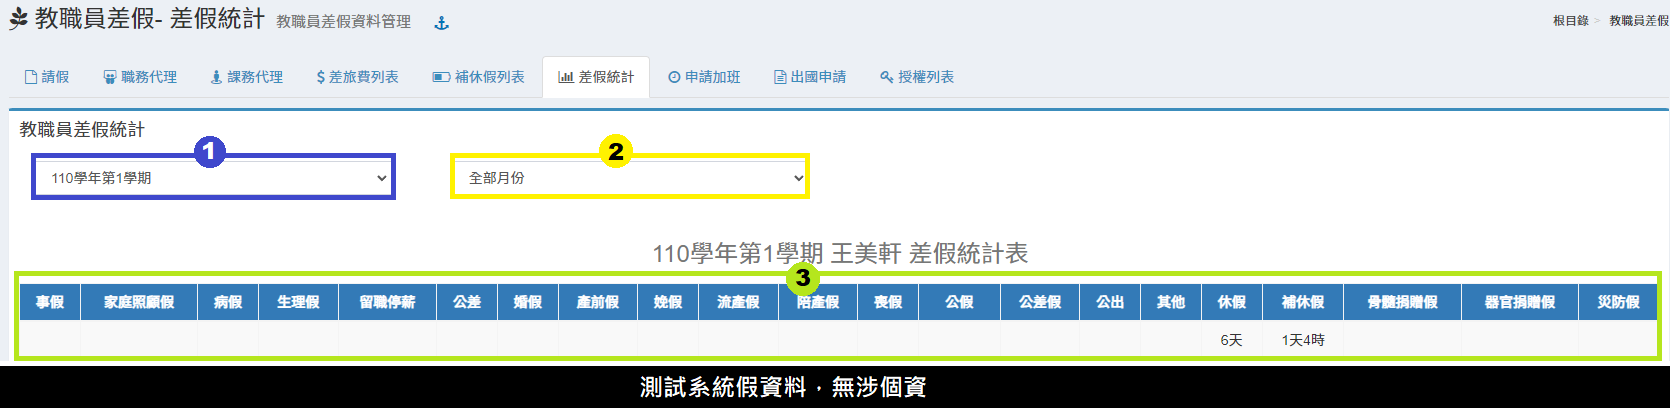
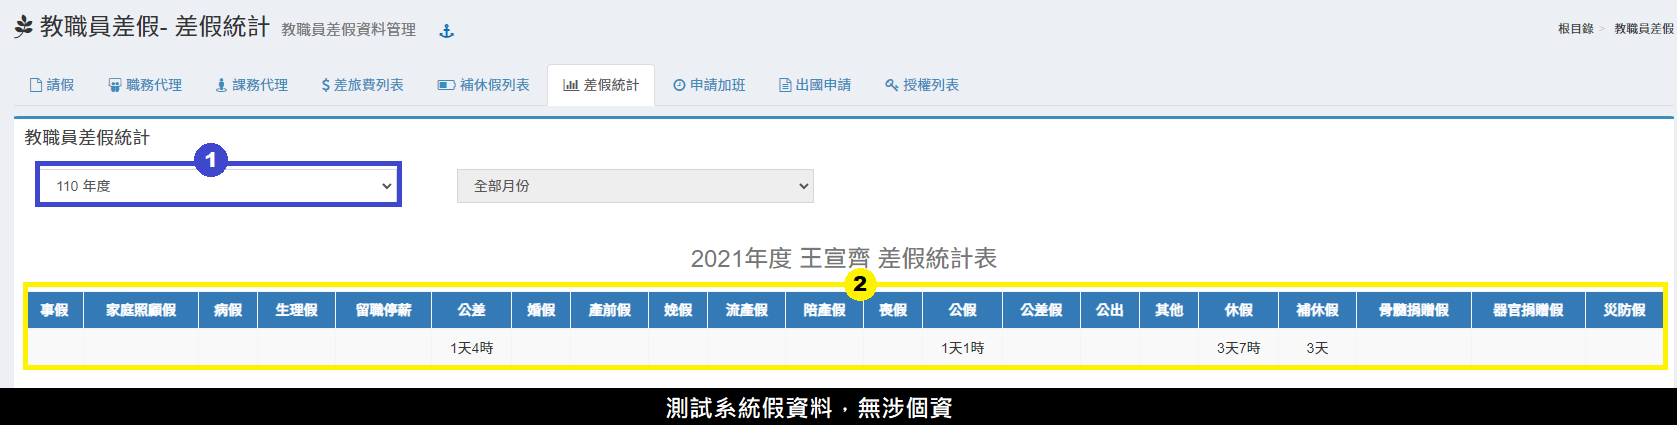
GitBook: [#341] [CHECK] 教職員差假 0103

diff --git a/xiao-hang-zheng/jiao-zhi-yuan-cha-jia-cha-jia-guan-li.md b/xiao-hang-zheng/jiao-zhi-yuan-cha-jia-cha-jia-guan-li.md
@@ -54,14 +54,15 @@
 {% tab title="填寫假單" %}
 ![](<../.gitbook/assets/absent-list2 (1).png>)
 
-1. 選擇**「假別」**。公差、公出、公假：於假日可勾選假日加班選項。
+1. 選擇**「假別」**。\
+   公差、公出、公假：於假日可勾選假日加班選項。
 2. 選擇**「學期」**，不得選擇過去學期，若沒有未來學期可以選，則需請註冊組先建立新學期。
-3. 填寫**「事由」**，公差假可填寫**「公差地點」**；出國可檢附已申請之出國申請表。
+3. 填寫**「事由」**，公差假需填寫**「公差地點」**；出國可檢附已申請之出國申請表。
 4. 填寫差假**「起迄日期、時間」**、**「天數」**、**「時數」**。
 5. 選擇**「課程安排方式」**：無課務、自行調課、公費排代、教保員代理、自費找代。
 6. 選擇**「職務代理人」**，不得選擇自己。
 7. 如有需要，可以上傳證明文件，並填寫文件說明。
-8. 按下**「存擋」**，新增假單。
+8. 按下**「存檔」**，新增假單。
 
 {% hint style="info" %}
 出國申請表填寫說明請參考 [出國申請](jiao-zhi-yuan-cha-jia-cha-jia-guan-li.md#chu-guo-shen-qing)。
@@ -71,15 +72,15 @@
 {% tab title="填寫週期性假單" %}
 ![](../.gitbook/assets/absent-list2-2.png)
 
-1. 選擇「假別」。&#x20;
-2. 選擇「學期」，不得選擇過去學期，若沒有未來學期可以選，則需請註冊組先建立新學期。&#x20;
-3. 選擇「週期性星期」、「開始結束時間」，填入時間後系統會自動計算「每次小時數」。 &#x20;
-4. 填寫「事由」，公差、公假需填寫「公差地點」。&#x20;
-5. 填寫週期性差假「起迄日期」。&#x20;
-6. 選擇「課程安排方式」：無課務、自行調課、公費排代、教保員代理、自費找代。&#x20;
-7. 選擇「職務代理人」，不得選擇自己。&#x20;
+1. 選擇**「假別」**。&#x20;
+2. 選擇**「學期」**，不得選擇過去學期，若沒有未來學期可以選，則需請註冊組先建立新學期。&#x20;
+3. 選擇**「週期性星期」**、**「開始結束時間」**，填入時間後系統會自動計算**「每次小時數」**。 &#x20;
+4. 填寫**「事由」**，公差、公假需填寫**「公差地點」**。&#x20;
+5. 填寫週期性請假**「起迄日期」**。&#x20;
+6. 選擇**「課程安排方式」**：無課務、自行調課、公費排代、教保員代理、自費找代。&#x20;
+7. 選擇**「職務代理人」**，不得選擇自己。&#x20;
 8. 如有需要，可以上傳證明文件，並填寫文件說明。&#x20;
-9. 按下「存擋」，新增假單。
+9. 按下**「存檔」**，新增假單。
 
 {% hint style="info" %}
 如欲使用週期性假單功能，需請人事管理單位至[教職員差假管理>差假設定>參數設定](jiao-zhi-yuan-cha-jia-cha-jia-guan-li.md#cha-jia-she-ding)中設定啟用。
@@ -135,7 +136,7 @@
 
 ![](<../.gitbook/assets/absent-travel-expense (1).png>)
 
-1. 選擇**「學期、差旅費申請狀態、申請月份」**可篩選差旅費申請紀錄。
+1. 選擇**「差旅費申請狀態、申請月份」**可篩選差旅費申請紀錄。
 2. 標示處呈現差旅費申請紀錄，及會計主任是否簽核。
 3. 點擊假單序號可查看該筆假單及差旅費明細，如下圖:![](../.gitbook/assets/absent-travel-expense2.png)
 4. 尚未簽核完畢之差旅費申請，可勾選列印**「差旅費報告表」**。
@@ -154,9 +155,8 @@
 
 ![](../.gitbook/assets/absent-status.png)
 
-1. 選擇統計之**「學期」**、**「學年度」**、**「年度」**。
-2. 選擇**「學期」**為統計區間時可選擇**「月份」**。
-3. 標示處顯示個人差假統計日數。
+1. 依教師職員身分選擇統計之**「學年度」**、**「年度」**。
+2. 標示處顯示個人差假統計日數。
 
 ### 申請加班
 
